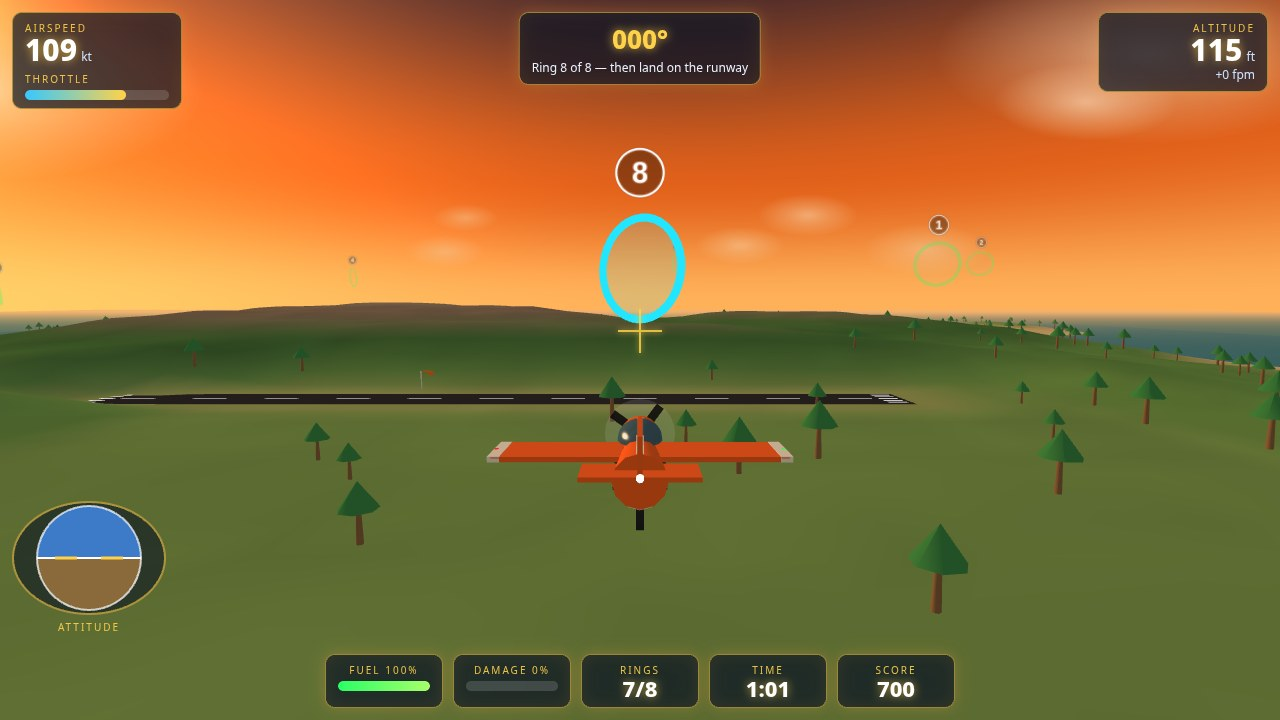
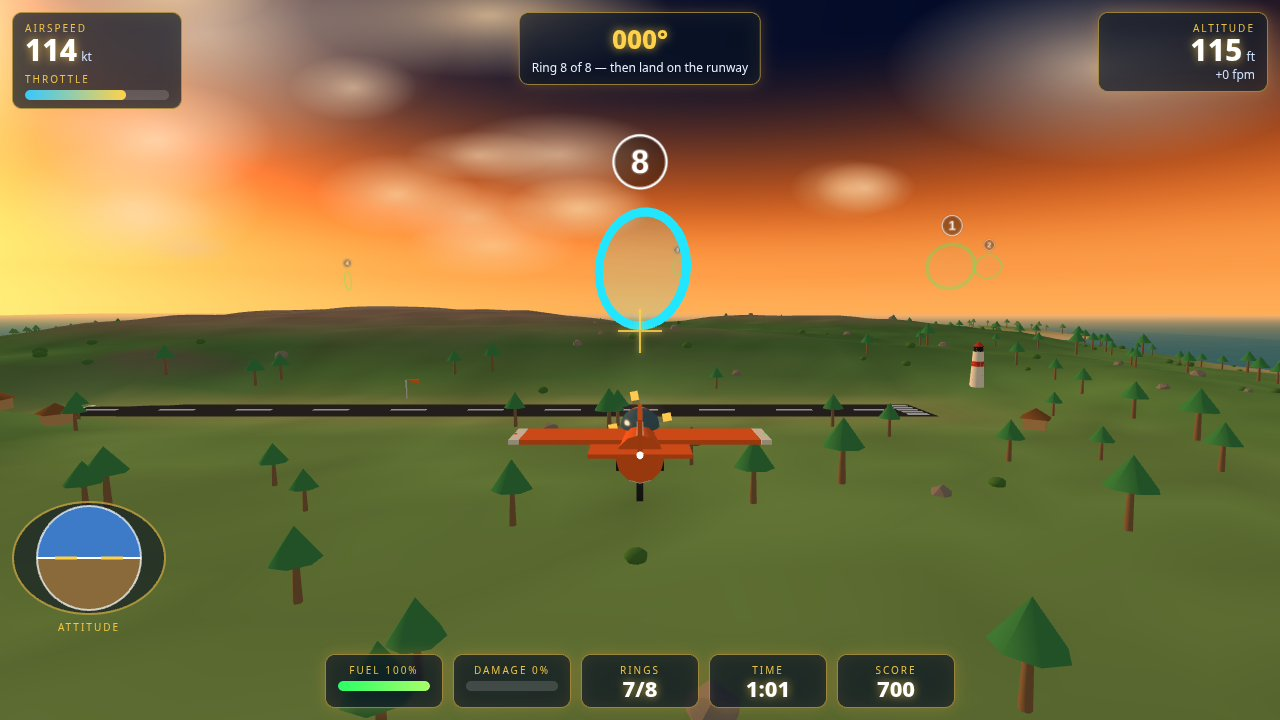
R2 rebuild: landing-roll friction + autopilot/debrief hooks + retaken screenshots
- flight.js/config.js: groundFriction 8 m/s^2 rolling resistance; a landed
  plane now stops in ~4.3 s from 40 m/s at throttle 0 (was: rolls forever
  on quadratic drag). Full thrust still beats it; go-around from a stop
  verified (liftoff 3.17 s).
- main.js: ?autopilot=1 deterministic test-only autopilot (line-following
  ring legs, runway traffic-pattern landing; real flight/mission paths;
  30x 1/60 s fast-forward under the slow software renderer). ?shot=debrief
  stages the completed-mission debrief through the real endFlight path.
  Verified end-to-end twice: takeoff -> 8/8 rings -> soft landing ->
  MISSION COMPLETE 1535 pts, damage 0.
- screenshots/: all 4 retaken at 1280x720 with the R1 look (lighthouse,
  denser palms, deeper sky). Opus 5.5R review: GO for top-50 plausibility.

diff --git a/game/src/main.js b/game/src/main.js
@@ -15,6 +15,18 @@ import { createInput } from './input.js';
 const params = new URLSearchParams(location.search);
 const SHOT = params.get('shot') || '';
 const SEED = parseInt(params.get('seed') || String(CONFIG.seed), 10) || CONFIG.seed;
+// Deterministic test-only autopilot: steers through the real flight/mission
+// code paths (takeoff, ring centres, runway threshold, flare, landing).
+// OFF unless ?autopilot=1; never affects normal play.
+const AUTOPILOT = params.get('autopilot') === '1';
+let autoStarted = false;
+// Autopilot line-following direction per ring: +1 runs the inbound leg
+// toward the gate; -1 flies back along the leg after an overshoot.
+let autoRingIdx = -1;
+let autoDir = 1;
+// Autopilot final-approach direction: -1 flies west to the staging point,
+// +1 flies the glide east onto the strip.
+let autoFinalDir = -1;
 
 const hud = createHud();
 const audio = createAudio();
@@ -102,6 +114,23 @@ function stageShot() {
   mission = startMission('ring-run');
   course = buildRingCourse(scene, mission.def);
   flight = createFlightState();
+  if (SHOT === 'debrief') {
+    // Completed-mission debrief through the real endFlight path: all 8 rings
+    // flown, soft touchdown, plausible finished score (recomputed by
+    // scoreMission inside endFlight). Plane stays parked on the runway.
+    course.rings.forEach((r) => { r.passed = true; });
+    setRingStates(course.rings, 8);
+    mission.ringsDone = 8;
+    mission.timeLeft = 41;
+    mission.timeBonusTotal = 80;
+    mission.elapsed = 150 + 80 - 41;
+    flight.fuel = 62;
+    flight.damage = 0;
+    mission._objective = objectiveText(mission);
+    endFlight('MISSION COMPLETE', 'Soft touchdown on the runway. The Kestrel is home.', true);
+    prevPos = { x: flight.x, y: flight.y, z: flight.z };
+    return;
+  }
   if (SHOT === 'cover') {
     // Final approach to ring 8: ring ahead, runway beyond it, island in frame.
     Object.assign(flight, { x: 60, y: 45, z: 350, heading: -Math.PI / 2, pitch: 0, bank: 0, speed: 55, throttle: 0.7, onGround: false, airborne: true });
@@ -134,6 +163,110 @@ function stageShot() {
   screen = 'flying';
   hud.setState('flying');
   prevPos = { x: flight.x, y: flight.y, z: flight.z };
+}
+
+// ---- Autopilot (?autopilot=1, test-only) ----
+// Returns a synthetic input snapshot each frame: bank toward the target
+// bearing, pitch toward the target altitude, throttle toward a target speed.
+// Target is the next ring's inbound leg (line-following), then the runway
+// centreline traffic pattern (west staging, east glide, touchdown).
+function autopilotInput() {
+  const snap = {
+    throttleUp: false, throttleDown: false,
+    pitchUp: false, pitchDown: false,
+    rollLeft: false, rollRight: false,
+    yawLeft: false, yawRight: false, brake: false,
+  };
+  let tx, ty, tz, targetSpeed;
+  const nextRing = course && course.rings.find((r) => !r.passed);
+  if (!flight.airborne) {
+    // Takeoff roll / ground roll: climb out straight down the runway.
+    tx = flight.x + 400; ty = 90; tz = 120; targetSpeed = 58;
+  } else if (nextRing) {
+    // Line-following: fly the inbound leg as a LINE through the ring
+    // centre (the ring faces along the leg from the previous ring). Pure
+    // pursuit of the centre ends in a stable orbit ~60 m off the gate —
+    // the turn radius at 52 m/s is ~140 m — so steer onto the line
+    // instead: head along the leg, corrected toward the line by the
+    // cross-track error. The line runs straight through the gate, so a
+    // converged approach cannot miss it. Overshoot past the ring plane
+    // flips the run direction until the plane is 300 m back up the leg.
+    const idx = nextRing.index;
+    const prevDef = idx === 0 ? { x: -150, y: 11, z: 120 } : course.rings[idx - 1].def;
+    let ux = nextRing.def.x - prevDef.x;
+    let uz = nextRing.def.z - prevDef.z;
+    const ul = Math.hypot(ux, uz) || 1;
+    ux /= ul; uz /= ul;
+    const dx = flight.x - nextRing.def.x;
+    const dz = flight.z - nextRing.def.z;
+    const s = dx * ux + dz * uz; // along-track: negative before the ring
+    if (nextRing.index !== autoRingIdx) { autoRingIdx = nextRing.index; autoDir = 1; }
+    const cx = dx - s * ux; // cross-track offset
+    const cz = dz - s * uz;
+    const cross = Math.hypot(cx, cz);
+    // Overshoot past the ring plane: fly back along the leg. Only turn
+    // around and run the leg again once well back up the leg AND back on
+    // the line — flipping on along-track alone re-triggers mid-turn and
+    // the plane orbits the gate forever.
+    if (s > 20) autoDir = -1;
+    else if (s < -350 && cross < 100) autoDir = 1;
+    const wx = autoDir * ux - cx / 40;
+    const wz = autoDir * uz - cz / 40;
+    tx = flight.x + wx * 100; // heading target only: aim 100 m along w
+    tz = flight.z + wz * 100;
+    ty = nextRing.def.y;
+    targetSpeed = autoDir === 1 ? (s > -250 ? 40 : 52) : 40;
+  } else {
+    // Final approach as a traffic pattern on the runway centreline
+    // (z=120): first fly WEST along the line to the staging point, then
+    // turn around and fly the glide EAST onto the strip. Line-following
+    // keeps the plane on the centreline; the glide stays above the 23 m
+    // hills west of the strip (probed heights) and touches down around
+    // mid-runway at ~1 m/s sink. Aiming straight at the threshold from
+    // ring 8 instead leaves the plane orbiting the point at 16 m forever
+    // (the old flare floored the pitch, so it could never descend).
+    const cz = flight.z - 120; // cross-track off the centreline
+    if (flight.x > 250) autoFinalDir = -1; // overshot east: go around
+    else if (flight.x < -400 && Math.abs(cz) < 60) autoFinalDir = 1;
+    const wx = autoFinalDir;
+    const wz = 0 - cz / 40;
+    tx = flight.x + wx * 100;
+    tz = flight.z + wz * 100;
+    if (autoFinalDir === -1) {
+      ty = 45; // positioning leg, well above the western hills
+    } else if (flight.x < -170) {
+      ty = 27 + (-170 - flight.x) * 0.05;
+    } else if (flight.x <= 0) {
+      ty = 11 + (-flight.x) * 0.094;
+    } else {
+      ty = 11;
+    }
+    targetSpeed = flight.onGround ? 0 : 42;
+  }
+  // Bearing: bank so the heading rate turns us toward the target. A
+  // negative bank raises the heading, so the desired bank is the negative
+  // of the heading error.
+  const wantHeading = Math.atan2(tz - flight.z, tx - flight.x);
+  let err = wantHeading - flight.heading;
+  err = Math.atan2(Math.sin(err), Math.cos(err));
+  // Slow down for big turns: at 52 m/s the turn radius (~140 m) is too
+  // wide to line up on a 400 m leg after a 140-degree course change; at
+  // 32 m/s the radius is ~50 m and the plane converges onto the leg
+  // instead of blowing past the gate 30 m off.
+  if (Math.abs(err) > 0.7) targetSpeed = Math.min(targetSpeed, 32);
+  const wantBank = Math.max(-1.1, Math.min(1.1, -err * 1.2));
+  if (flight.bank < wantBank - 0.04) snap.rollRight = true;
+  else if (flight.bank > wantBank + 0.04) snap.rollLeft = true;
+  // Altitude: pitch for a vertical speed proportional to the height error,
+  // flaring (nose up, slow) once low on final with the course complete.
+  let wantVy = Math.max(-9, Math.min(9, (ty - flight.y) * 0.9));
+  let wantPitch = Math.max(-0.35, Math.min(0.4, wantVy / Math.max(flight.speed, 15)));
+  if (flight.pitch < wantPitch - 0.03) snap.pitchUp = true;
+  else if (flight.pitch > wantPitch + 0.03) snap.pitchDown = true;
+  // Speed: bang-bang throttle around the target speed.
+  if (flight.speed < targetSpeed - 1) snap.throttleUp = true;
+  else if (flight.speed > targetSpeed + 1.5) snap.throttleDown = true;
+  return snap;
 }
 
 // ---- Per-frame update ----
@@ -169,7 +302,7 @@ function update(dt, t) {
 }
 
 function updateFlying(dt) {
-  const snap = input.snapshot();
+  const snap = AUTOPILOT ? autopilotInput() : input.snapshot();
   const events = updateFlight(flight, snap, dt);
   if (events.includes('takeoff')) hud.showMessage('AIRBORNE — GEAR UP, FLY THE COURSE');
   // Keep the plane glued to the strip while it is still on the ground.
@@ -301,7 +434,21 @@ function animate() {
   const dt = Math.min(clock.getDelta(), 0.05);
   const t = clock.elapsedTime;
   if (SHOT) stageShot();
-  update(dt, t);
+  if (AUTOPILOT && !SHOT && !autoStarted) {
+    autoStarted = true;
+    mission = startMission('ring-run');
+    course = buildRingCourse(scene, mission.def);
+    beginFlight();
+  }
+  // Test-only fast-forward: the software renderer runs at a few fps, so
+  // advance the simulation in fixed 1/60 s steps several times per rendered
+  // frame. Same code paths, same step size — only the wall-clock pace changes.
+  // Normal play is untouched: it still steps once per frame with the real dt.
+  if (AUTOPILOT) {
+    for (let i = 0; i < 30; i++) update(1 / 60, t);
+  } else {
+    update(dt, t);
+  }
   terrain.update(dt, t);
   updateAircraft(aircraft, flight, dt);
   updateCamera(dt, t);
@@ -312,6 +459,22 @@ function animate() {
   }
   renderer.render(scene, camera);
   if (!window.__skyRingReady) window.__skyRingReady = true;
+  if (AUTOPILOT && (screen === 'landed' || screen === 'crashed')) {
+    window.__skyRingAutopilotResult = screen;
+  }
+  if (AUTOPILOT) {
+    // Test-only probes for the screenshot harness.
+    window.__skyRingHeightAt = (x, z) => terrain.heightAt(x, z);
+    window.__skyRingDebug = () => ({
+      screen, x: Math.round(flight.x), y: Math.round(flight.y), z: Math.round(flight.z),
+      speed: Math.round(flight.speed), ringsDone: mission ? mission.ringsDone : 0,
+      timeLeft: mission ? Math.round(mission.timeLeft) : 0, fuel: Math.round(flight.fuel),
+      throttle: +flight.throttle.toFixed(2), bank: +flight.bank.toFixed(2),
+      pitch: +flight.pitch.toFixed(2), onGround: flight.onGround,
+      heading: +flight.heading.toFixed(2), airborne: flight.airborne,
+      damage: Math.round(flight.damage),
+    });
+  }
 }
 
 const clock = new THREE.Clock();

diff --git a/game/src/flight.js b/game/src/flight.js
@@ -66,6 +66,14 @@ export function updateFlight(state, input, dt) {
   state.speed += (thrust - drag - Math.sin(state.pitch) * CONFIG.gravity * 0.9) * dt;
   if (state.speed < 0) state.speed = 0;
 
+  // Rolling resistance on the ground: without it a landed plane rolls forever
+  // on quadratic drag alone. A constant decel brings it to a dead stop in
+  // finite time (no creep); thrust still beats it, so a go-around from a
+  // stop (throttle up + pitch) works exactly as before.
+  if (state.onGround && state.speed > 0) {
+    state.speed = Math.max(0, state.speed - CONFIG.groundFriction * dt);
+  }
+
   // Takeoff: enough speed + a little pitch lifts off the ground.
   if (state.onGround && state.speed > CONFIG.stallSpeed * 0.9 && state.pitch > 0.04) {
     state.onGround = false; state.airborne = true; events.push('takeoff');

diff --git a/game/src/config.js b/game/src/config.js
@@ -13,6 +13,9 @@ export const CONFIG = {
   maxBank: 1.15,         // rad (~66 deg)
   gravity: 9.81,
   brakeDrag: 0.9,        // extra drag multiplier with airbrake
+  groundFriction: 8,    // m/s^2 rolling resistance on the ground: a landed
+  // plane stops in ~4 s from 40 m/s with throttle at 0; full thrust (22)
+  // still beats it, so a go-around from a stop works as before.
   // Fuel / damage
   fuelCapacity: 100,
   fuelBurn: 1.0,         // %/s at full throttle (idle ~0.15)
